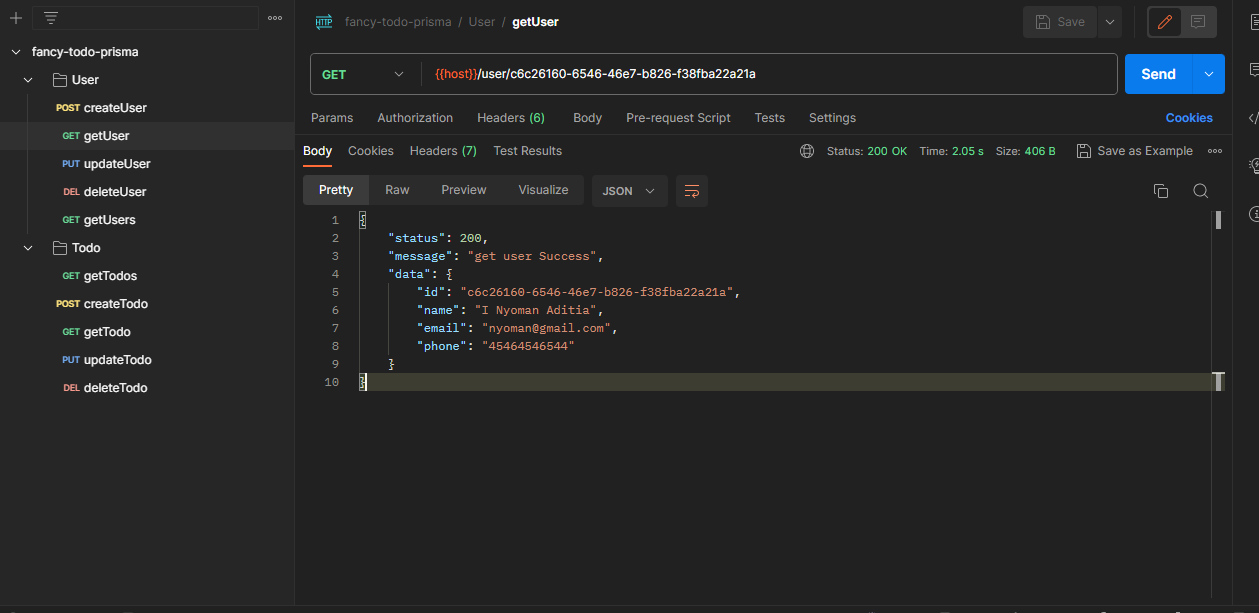
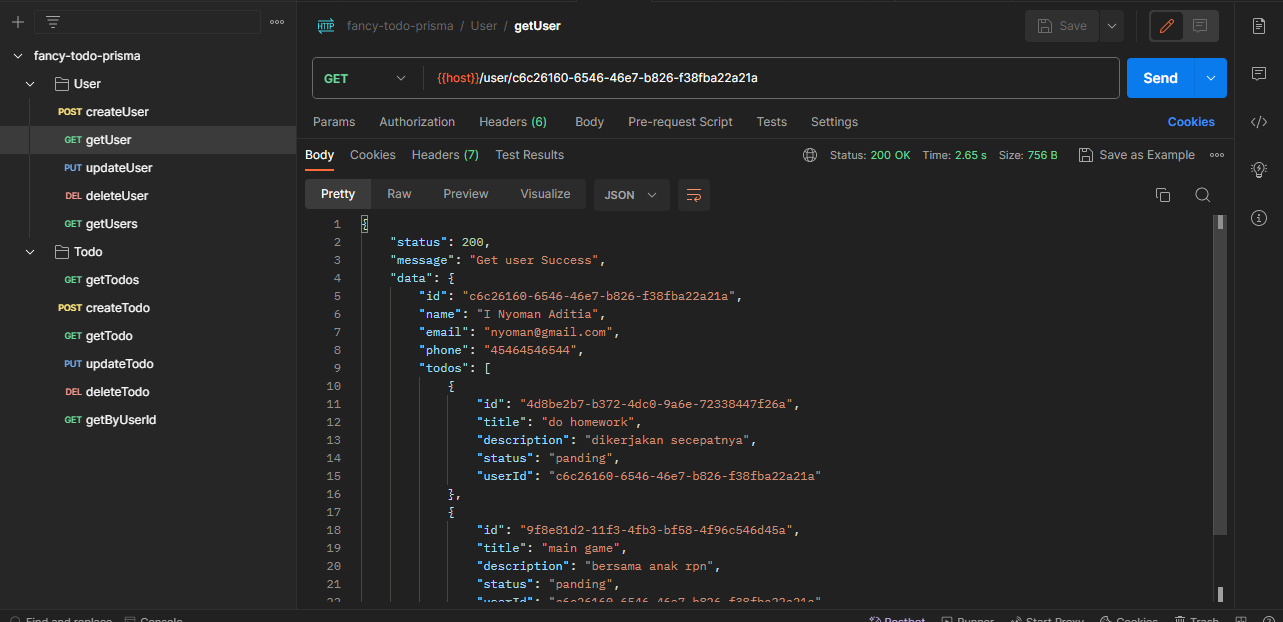
Add getTodoByUserId And Add Include Todos: True

diff --git a/fancy-todo-prisma/src/controllers/todo.controller.js b/fancy-todo-prisma/src/controllers/todo.controller.js
@@ -35,6 +35,24 @@ const getTodo = async (req, res) => {
   }
 };
 
+const getTodoByUserId = async (req, res) => {
+  try {
+    const id = req.params.id;
+    const result = await todoService.getTodoByUserId(id);
+    res.status(200).send({
+      status: 200,
+      message: "Get Todo by User Id Success",
+      data: result,
+    });
+  } catch (error) {
+    res.status(500).send({
+      status: 500,
+      message: "Internal Server Error",
+      error: error.message,
+    });
+  }
+};
+
 const createTodo = async (req, res) => {
   try {
     const { title, description, status, userId } = req.body;
@@ -94,4 +112,11 @@ const deleteTodo = async (req, res) => {
   }
 };
 
-module.exports = { createTodo, updateTodo, getTodo, getTodos, deleteTodo};
+module.exports = {
+  createTodo,
+  updateTodo,
+  getTodo,
+  getTodos,
+  deleteTodo,
+  getTodoByUserId,
+};

diff --git a/fancy-todo-prisma/src/service/todo.service.js b/fancy-todo-prisma/src/service/todo.service.js
@@ -14,6 +14,15 @@ const getTodo = async (id) => {
   return todo;
 };
 
+const getTodoByUserId = async(userId) => {
+  const todo = await prisma.todo.findMany({
+    where: {
+      userId
+    }
+  });
+  return todo;
+}
+
 const createTodo = async (title, description, status, userId) => {
   const todo = await prisma.todo.create({
     data: {
@@ -49,4 +58,11 @@ const deleteTodo = async (id) => {
   return todo;
 };
 
-module.exports = { createTodo, getTodos, getTodo, updateTodo, deleteTodo };
+module.exports = {
+  createTodo,
+  getTodos,
+  getTodo,
+  updateTodo,
+  deleteTodo,
+  getTodoByUserId,
+};

diff --git a/fancy-todo-prisma/src/service/user.service.js b/fancy-todo-prisma/src/service/user.service.js
@@ -1,16 +1,23 @@
 const prisma = require("../../prisma/client");
 
 const getUsers = async() => {
-  const user = await prisma.user.findMany();
+  const user = await prisma.user.findMany({
+    include: {
+      todos: true
+    }
+  });
   return user;
 }
 
 const getUser = async(id) => {
   const user = await prisma.user.findUnique({
     where: {
-      id
-    }
-  })
+      id,
+    },
+    include: {
+      todos: true,
+    },
+  });
   return user
 }
 

diff --git a/fancy-todo-prisma/src/routes/todo.route.js b/fancy-todo-prisma/src/routes/todo.route.js
@@ -12,4 +12,6 @@ router
   .put(todoController.updateTodo)
   .delete(todoController.deleteTodo);
 
+router.get("/getByUserId/:id", todoController.getTodoByUserId);
+
 module.exports = router;

diff --git a/fancy-todo-prisma/src/controllers/user.controller.js b/fancy-todo-prisma/src/controllers/user.controller.js
@@ -1,4 +1,3 @@
-const { param } = require("../routes");
 const userService = require("../service/user.service");
 
 
